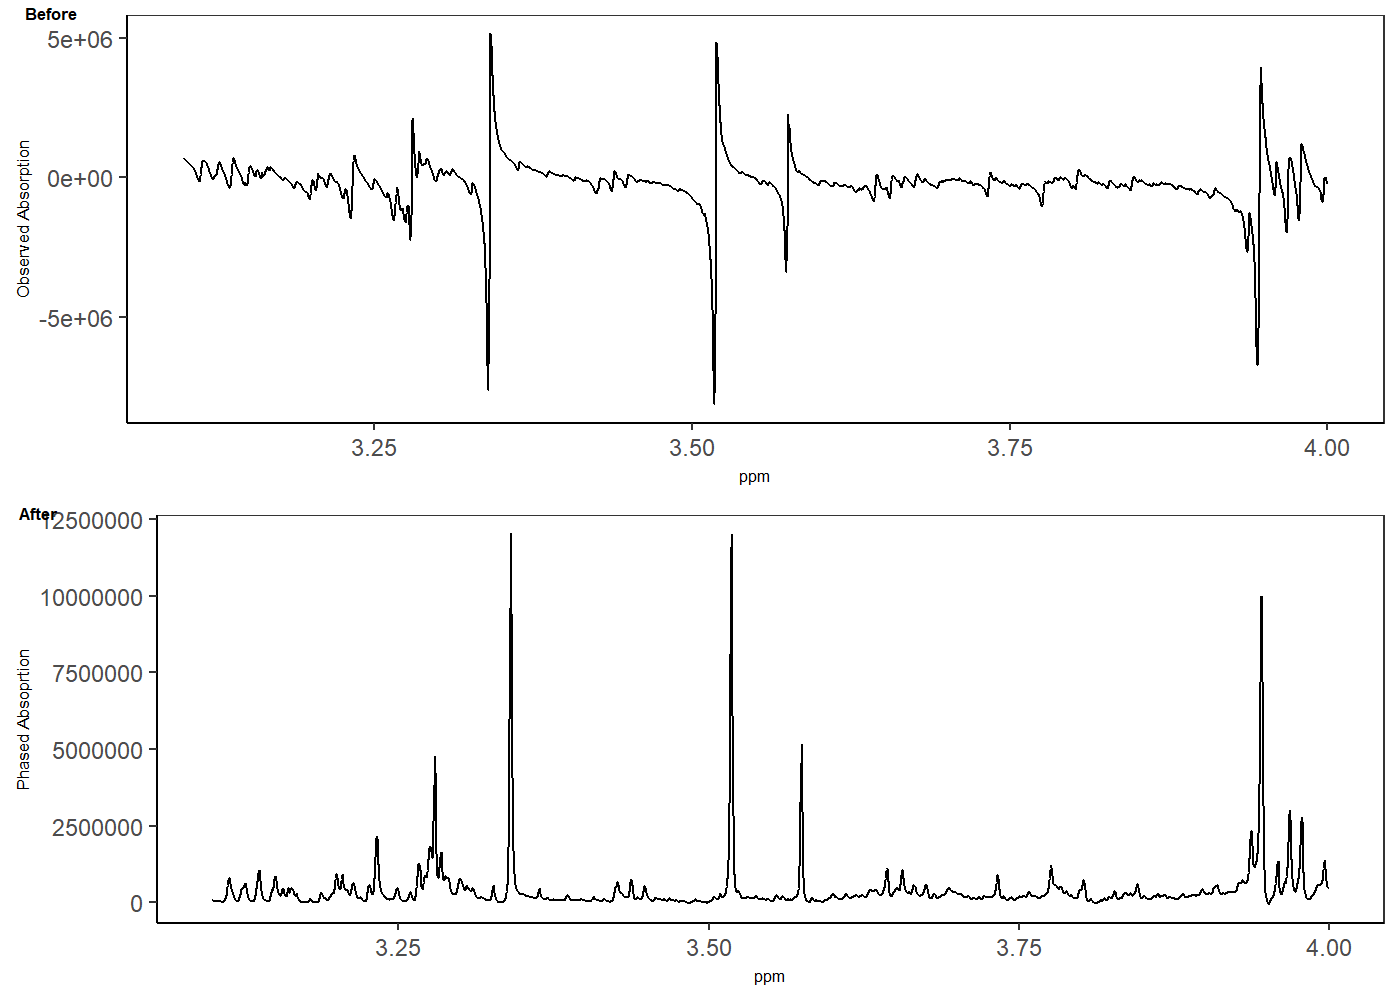
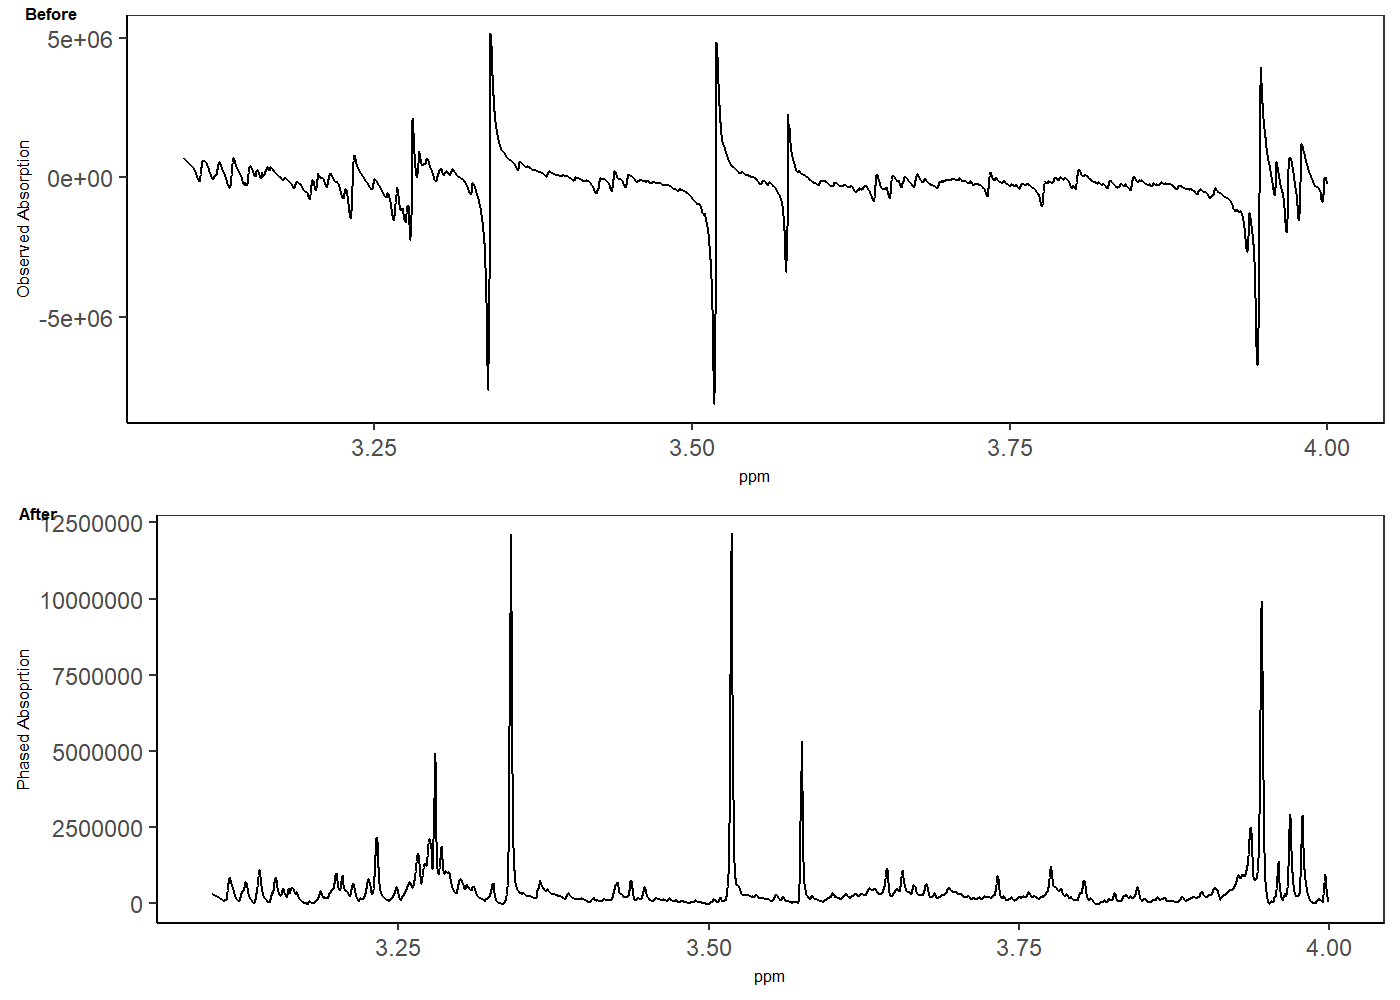
NMRphasing1.0.4

diff --git a/README.md b/README.md
@@ -97,6 +97,16 @@ correction method since it does not involve any optimization step.
 
 ![](README_files/figure-markdown_strict/unnamed-chunk-5-1.png)
 
+The default setting for ‘withBC’ is TRUE, which tests for baseline bias
+based on spline regression on the lowess line. If the maximum of
+adjusted squared r is greater than 0.2, baseline correction is performed
+with modified polynomial fitting.
+
+If you set ‘withBC’ as FALSE, then no baseline bias will be tested and
+corrected. The example code is:
+
+    fdat$Phased_Absoprtion = NMRphasing(specDatIn = fdat$frequency_domain, method = "NLS", withBC = FALSE) 
+
 ### 2. SPC\_DANM
 
 The “SPC\_DANM” method employs the traditional single linear model
@@ -114,7 +124,7 @@ net area.
             axis.title.y = element_text(size = 6))
     ggarrange(plotlist = list(p1,p2),labels = c("Before","After"),font.label = list(size = 6),nrow = 2, ncol=1)
 
-![](README_files/figure-markdown_strict/unnamed-chunk-6-1.png)
+![](README_files/figure-markdown_strict/unnamed-chunk-7-1.png)
 
 ### 3. MPC\_DANM
 
@@ -132,7 +142,7 @@ difference between absolute area and net area.
             axis.title.y = element_text(size = 6))
     ggarrange(plotlist = list(p1,p2),labels = c("Before","After"),font.label = list(size = 6),nrow = 2, ncol=1)
 
-![](README_files/figure-markdown_strict/unnamed-chunk-7-1.png)
+![](README_files/figure-markdown_strict/unnamed-chunk-8-1.png)
 
 ### 4. SPC\_EMP
 
@@ -150,7 +160,7 @@ entropy minimization with negative peak penalty.
             axis.title.y = element_text(size = 6))
     ggarrange(plotlist = list(p1,p2),labels = c("Before","After"),font.label = list(size = 6),nrow = 2, ncol=1)
 
-![](README_files/figure-markdown_strict/unnamed-chunk-8-1.png)
+![](README_files/figure-markdown_strict/unnamed-chunk-9-1.png)
 
 ### 5. MPC\_EMP
 
@@ -168,7 +178,7 @@ minimization with negative peak penalty.
             axis.title.y = element_text(size = 6))
     ggarrange(plotlist = list(p1,p2),labels = c("Before","After"),font.label = list(size = 6),nrow = 2, ncol=1)
 
-![](README_files/figure-markdown_strict/unnamed-chunk-9-1.png)
+![](README_files/figure-markdown_strict/unnamed-chunk-10-1.png)
 
 ### 6. SPC\_AAM
 
@@ -186,7 +196,7 @@ area minimization.
             axis.title.y = element_text(size = 6))
     ggarrange(plotlist = list(p1,p2),labels = c("Before","After"),font.label = list(size = 6),nrow = 2, ncol=1)
 
-![](README_files/figure-markdown_strict/unnamed-chunk-10-1.png)
+![](README_files/figure-markdown_strict/unnamed-chunk-11-1.png)
 
 ### 7. MPC\_AAM
 
@@ -204,7 +214,7 @@ minimization.
             axis.title.y = element_text(size = 6))
     ggarrange(plotlist = list(p1,p2),labels = c("Before","After"),font.label = list(size = 6),nrow = 2, ncol=1)
 
-![](README_files/figure-markdown_strict/unnamed-chunk-11-1.png)
+![](README_files/figure-markdown_strict/unnamed-chunk-12-1.png)
 
 ### 8. SPC\_DSM
 
@@ -222,7 +232,7 @@ summation minimization.
             axis.title.y = element_text(size = 6))
     ggarrange(plotlist = list(p1,p2),labels = c("Before","After"),font.label = list(size = 6),nrow = 2, ncol=1)
 
-![](README_files/figure-markdown_strict/unnamed-chunk-12-1.png)
+![](README_files/figure-markdown_strict/unnamed-chunk-13-1.png)
 
 ### 9. MPC\_DSM
 
@@ -240,11 +250,109 @@ summation minimization..
             axis.title.y = element_text(size = 6))
     ggarrange(plotlist = list(p1,p2),labels = c("Before","After"),font.label = list(size = 6),nrow = 2, ncol=1)
 
-![](README_files/figure-markdown_strict/unnamed-chunk-13-1.png)
+![](README_files/figure-markdown_strict/unnamed-chunk-14-1.png)
 
 ## IV. NMRphasing R package general information
 
-Version: 1.0.3 <Authors@R>: c( person(“Aixiang Jiang”, role = c(“aut”,
+    devtools::session_info()
+
+    ## ─ Session info ───────────────────────────────────────────────────────────────
+    ##  setting  value
+    ##  version  R version 4.3.2 (2023-10-31 ucrt)
+    ##  os       Windows 11 x64 (build 22631)
+    ##  system   x86_64, mingw32
+    ##  ui       RTerm
+    ##  language (EN)
+    ##  collate  English_United States.utf8
+    ##  ctype    English_United States.utf8
+    ##  tz       America/Vancouver
+    ##  date     2024-01-19
+    ##  pandoc   3.1.8 @ C:/PROGRA~1/Pandoc/ (via rmarkdown)
+    ## 
+    ## ─ Packages ───────────────────────────────────────────────────────────────────
+    ##  package         * version date (UTC) lib source
+    ##  abind             1.4-5   2016-07-21 [1] CRAN (R 4.3.1)
+    ##  backports         1.4.1   2021-12-13 [1] CRAN (R 4.3.1)
+    ##  baseline          1.3-5   2023-11-18 [1] CRAN (R 4.3.2)
+    ##  broom             1.0.5   2023-06-09 [1] CRAN (R 4.3.1)
+    ##  cachem            1.0.8   2023-05-01 [1] CRAN (R 4.3.1)
+    ##  car               3.1-2   2023-03-30 [1] CRAN (R 4.3.1)
+    ##  carData           3.0-5   2022-01-06 [1] CRAN (R 4.3.1)
+    ##  cli               3.6.2   2023-12-11 [1] CRAN (R 4.3.2)
+    ##  colorspace        2.1-0   2023-01-23 [1] CRAN (R 4.3.1)
+    ##  cowplot           1.1.2   2023-12-15 [1] CRAN (R 4.3.2)
+    ##  devtools          2.4.5   2022-10-11 [1] CRAN (R 4.3.2)
+    ##  digest            0.6.33  2023-07-07 [1] CRAN (R 4.3.1)
+    ##  dplyr             1.1.4   2023-11-17 [1] CRAN (R 4.3.2)
+    ##  ellipsis          0.3.2   2021-04-29 [1] CRAN (R 4.3.1)
+    ##  evaluate          0.23    2023-11-01 [1] CRAN (R 4.3.2)
+    ##  fansi             1.0.6   2023-12-08 [1] CRAN (R 4.3.2)
+    ##  farver            2.1.1   2022-07-06 [1] CRAN (R 4.3.1)
+    ##  fastmap           1.1.1   2023-02-24 [1] CRAN (R 4.3.1)
+    ##  fs                1.6.3   2023-07-20 [1] CRAN (R 4.3.1)
+    ##  generics          0.1.3   2022-07-05 [1] CRAN (R 4.3.1)
+    ##  ggplot2         * 3.4.4   2023-10-12 [1] CRAN (R 4.3.1)
+    ##  ggpubr          * 0.6.0   2023-02-10 [1] CRAN (R 4.3.1)
+    ##  ggsignif          0.6.4   2022-10-13 [1] CRAN (R 4.3.1)
+    ##  glue              1.6.2   2022-02-24 [1] CRAN (R 4.3.1)
+    ##  gtable            0.3.4   2023-08-21 [1] CRAN (R 4.3.1)
+    ##  highr             0.10    2022-12-22 [1] CRAN (R 4.3.1)
+    ##  htmltools         0.5.7   2023-11-03 [1] CRAN (R 4.3.2)
+    ##  htmlwidgets       1.6.4   2023-12-06 [1] CRAN (R 4.3.2)
+    ##  httpuv            1.6.13  2023-12-06 [1] CRAN (R 4.3.2)
+    ##  knitr             1.45    2023-10-30 [1] CRAN (R 4.3.1)
+    ##  labeling          0.4.3   2023-08-29 [1] CRAN (R 4.3.1)
+    ##  later             1.3.2   2023-12-06 [1] CRAN (R 4.3.2)
+    ##  lifecycle         1.0.4   2023-11-07 [1] CRAN (R 4.3.2)
+    ##  limSolve          1.5.7   2023-09-21 [1] CRAN (R 4.3.1)
+    ##  lpSolve           5.6.20  2023-12-10 [1] CRAN (R 4.3.2)
+    ##  magrittr          2.0.3   2022-03-30 [1] CRAN (R 4.3.1)
+    ##  MASS              7.3-60  2023-05-04 [2] CRAN (R 4.3.2)
+    ##  MassSpecWavelet   1.68.0  2023-10-24 [1] Bioconductor
+    ##  memoise           2.0.1   2021-11-26 [1] CRAN (R 4.3.1)
+    ##  mime              0.12    2021-09-28 [1] CRAN (R 4.3.1)
+    ##  miniUI            0.1.1.1 2018-05-18 [1] CRAN (R 4.3.2)
+    ##  munsell           0.5.0   2018-06-12 [1] CRAN (R 4.3.1)
+    ##  NMRphasing      * 1.0.4   2024-01-19 [1] local
+    ##  pillar            1.9.0   2023-03-22 [1] CRAN (R 4.3.1)
+    ##  pkgbuild          1.4.3   2023-12-10 [1] CRAN (R 4.3.2)
+    ##  pkgconfig         2.0.3   2019-09-22 [1] CRAN (R 4.3.1)
+    ##  pkgload           1.3.3   2023-09-22 [1] CRAN (R 4.3.1)
+    ##  profvis           0.3.8   2023-05-02 [1] CRAN (R 4.3.2)
+    ##  promises          1.2.1   2023-08-10 [1] CRAN (R 4.3.2)
+    ##  purrr             1.0.2   2023-08-10 [1] CRAN (R 4.3.1)
+    ##  quadprog          1.5-8   2019-11-20 [1] CRAN (R 4.3.1)
+    ##  R6                2.5.1   2021-08-19 [1] CRAN (R 4.3.1)
+    ##  Rcpp              1.0.11  2023-07-06 [1] CRAN (R 4.3.1)
+    ##  remotes           2.4.2.1 2023-07-18 [1] CRAN (R 4.3.2)
+    ##  rlang             1.1.2   2023-11-04 [1] CRAN (R 4.3.2)
+    ##  rmarkdown         2.25    2023-09-18 [1] CRAN (R 4.3.1)
+    ##  rstatix           0.7.2   2023-02-01 [1] CRAN (R 4.3.1)
+    ##  rstudioapi        0.15.0  2023-07-07 [1] CRAN (R 4.3.1)
+    ##  scales            1.3.0   2023-11-28 [1] CRAN (R 4.3.2)
+    ##  sessioninfo       1.2.2   2021-12-06 [1] CRAN (R 4.3.2)
+    ##  shiny             1.8.0   2023-11-17 [1] CRAN (R 4.3.2)
+    ##  SparseM           1.81    2021-02-18 [1] CRAN (R 4.3.1)
+    ##  stringi           1.8.3   2023-12-11 [1] CRAN (R 4.3.2)
+    ##  stringr           1.5.1   2023-11-14 [1] CRAN (R 4.3.2)
+    ##  tibble            3.2.1   2023-03-20 [1] CRAN (R 4.3.1)
+    ##  tidyr             1.3.0   2023-01-24 [1] CRAN (R 4.3.1)
+    ##  tidyselect        1.2.0   2022-10-10 [1] CRAN (R 4.3.1)
+    ##  urlchecker        1.0.1   2021-11-30 [1] CRAN (R 4.3.2)
+    ##  usethis           2.2.2   2023-07-06 [1] CRAN (R 4.3.2)
+    ##  utf8              1.2.4   2023-10-22 [1] CRAN (R 4.3.1)
+    ##  vctrs             0.6.5   2023-12-01 [1] CRAN (R 4.3.2)
+    ##  withr             2.5.2   2023-10-30 [1] CRAN (R 4.3.1)
+    ##  xfun              0.41    2023-11-01 [1] CRAN (R 4.3.2)
+    ##  xtable            1.8-4   2019-04-21 [1] CRAN (R 4.3.1)
+    ##  yaml              2.3.8   2023-12-11 [1] CRAN (R 4.3.2)
+    ## 
+    ##  [1] C:/Users/jiang/AppData/Local/R/win-library/4.3
+    ##  [2] C:/Program Files/R/R-4.3.2/library
+    ## 
+    ## ──────────────────────────────────────────────────────────────────────────────
+
+Version: 1.0.4 <Authors@R>: c( person(“Aixiang Jiang”, role = c(“aut”,
 “cre”, “cph”), email = “<aijiang@bccrc.ca>”, comment = c(ORCID =
 “0000-0002-6153-7595”)) ) Maintainer: Aixiang Jiang <aijiang@bccrc.ca>
 Depends: R (&gt;= 4.3.0),stats Suggests: knitr, rmarkdown, ggpubr
